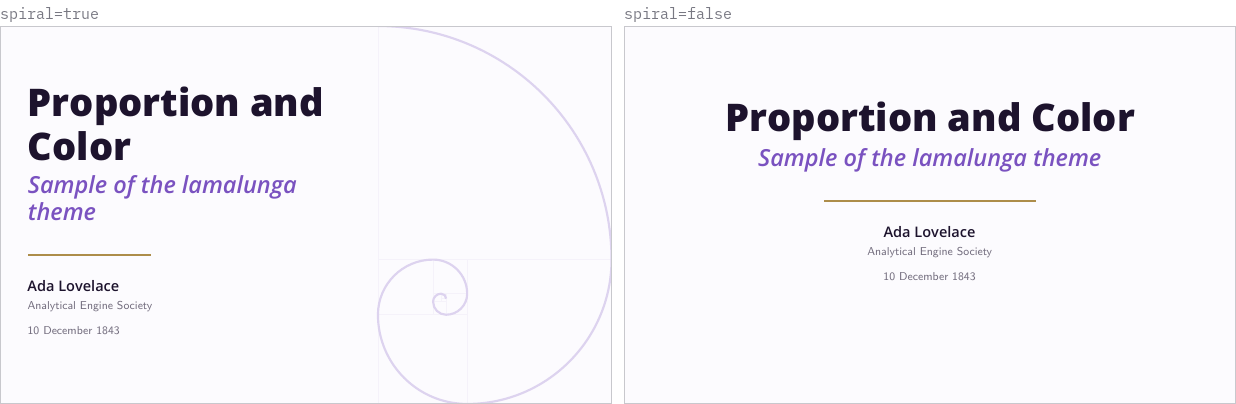
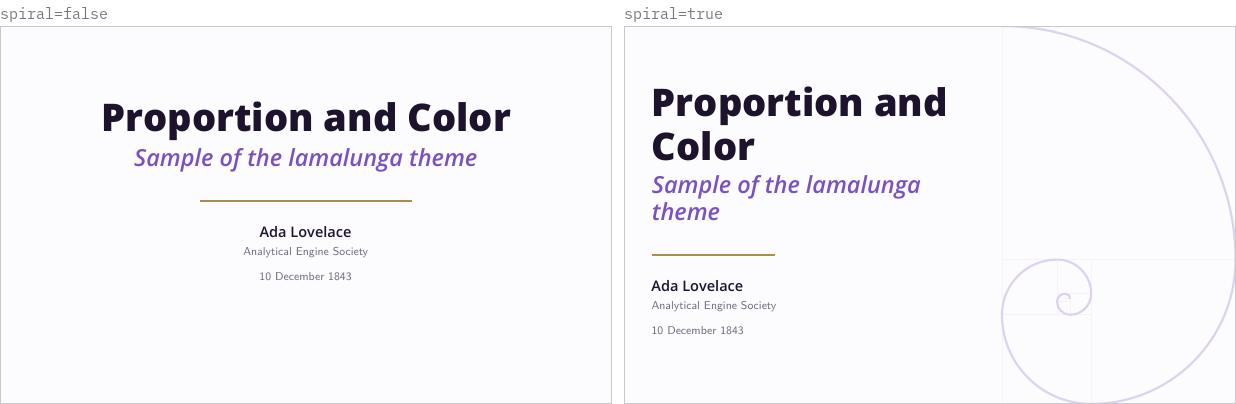
No spiral drawn by default: centered title page in every style

diff --git a/demo/lamalunga-demo.tex b/demo/lamalunga-demo.tex
@@ -46,16 +46,12 @@
 \section{Proportion}
 
 \begin{frame}{The page is a golden rectangle}
-  \begin{goldencolumns}
-    The page measures \inmm{\paperwidth} by \inmm{\paperheight}, i.e., a
-    ratio of
-    \(\pgfmathparse{\paperwidth/\paperheight}\pgfmathprintnumber[precision=4]{\pgfmathresult}\),
-    and the margins are \fib{8}\,pt and \fib{7}\,pt,
-    two consecutive Fibonacci numbers: since their ratio is again
-    \(\varphi\), the block of text is a golden rectangle as well.
-    \nextcolumn
-    \goldenspiral{2.4cm}
-  \end{goldencolumns}
+  The page measures \inmm{\paperwidth} by \inmm{\paperheight}, i.e., a
+  ratio of
+  \(\pgfmathparse{\paperwidth/\paperheight}\pgfmathprintnumber[precision=4]{\pgfmathresult}\),
+  and the margins are \fib{8}\,pt and \fib{7}\,pt,
+  two consecutive Fibonacci numbers: since their ratio is again
+  \(\varphi\), the block of text is a golden rectangle as well.
 \end{frame}
 
 \begin{frame}{Golden columns}

diff --git a/doc/gallery/build.py b/doc/gallery/build.py
@@ -95,8 +95,8 @@ FIGURES = {
         ("aspect=beamer (16:9)", "aspect=beamer"),
     ]),
     "spiral": ("title", [
-        ("spiral=true", "spiral=true"),
         ("spiral=false", "spiral=false"),
+        ("spiral=true", "spiral=true"),
     ]),
     "guides": ("plain", [
         ("guides=both", "guides=both"),

diff --git a/README.md b/README.md
@@ -141,9 +141,10 @@ in parentheses describes the options that control it.
   rule of φ pt; the padding of a highlight is φ times wider than it is tall;
   corners are square or rounded with a radius of φ⁻³ em; images are cropped to
   a golden rectangle.
-- **The golden spiral.** On the title page, the golden rectangle of the page
-  is cut into its squares: the title sits in the first one, and the spiral
-  turns in the others.
+- **The golden section of the title page.** The title block is centered and
+  sits at the golden section of the height; with `spiral=true` the golden
+  rectangle of the page is cut into its squares, the title takes the first
+  one and the spiral is drawn in the others.
 - **Styles, as in interior design.** A single choice (`bauhaus`, `swiss`,
   `nordic`, `classical`, `japandi`) sets the weight of the titles, the
   primary, the harmony, the mode and the forms of a coherent idiom (the two
@@ -190,11 +191,11 @@ the titles and in everything else.
 
 | style | titles | primary | harmony | mode | forms |
 |---|---|---|---|---|---|
-| `lamalunga` (default) | ExtraBold | `7A52C0` violet | complementary | light, tinted | bold titles, bold alerts, arrows, tinted blocks, title and author in the foot line, spiral |
+| `lamalunga` (default) | ExtraBold | `7A52C0` violet | complementary | light, tinted | bold titles, bold alerts, arrows, tinted blocks, title and author in the foot line |
 | `bauhaus` | ExtraBold | `BE1E2D` red | triadic: red, yellow, blue | light, white | boxed titles and alerts, Bauhaus bullets, rule blocks |
 | `swiss` | ExtraBold | `D52B1E` red | monochromatic | light, white | bold alerts, rule blocks, narrow margins |
 | `nordic` | Light | `4F6D7A` slate | analogous | paper | rounded corners, tinted blocks |
-| `classical` | Light | `7A1F2B` burgundy | complementary | paper | rule blocks, wide margins, spiral |
+| `classical` | Light | `7A1F2B` burgundy | complementary | paper | rule blocks, wide margins |
 | `japandi` | Light | `6B705C` olive gray | monochromatic | paper | rounded corners, rule blocks, wide margins |
 
 ## Color
@@ -328,10 +329,11 @@ page; with `light` the words in a highlight are no longer set in bold.
 
 Plain titles (the default) are set in bold in the primary; boxed titles set
 the frame titles, the title and the section titles in a box of the primary,
-and a title broken with `\\` gets one box per line. Without the spiral, the
-title page is centered horizontally (and stays at the golden section of the
-height). Alerts are in the first accent and in bold by default, in the accent
-alone with `color`, or a highlight of the accent with `boxed`.
+and a title broken with `\\` gets one box per line. The title page is
+centered horizontally and stays at the golden section of the height (with
+`spiral=true` it keeps to the first square of the spiral instead). Alerts
+are in the first accent and in bold by default, in the accent alone with
+`color`, or a highlight of the accent with `boxed`.
 
 ![Boxed and plain titles](doc/img/titles.png)
 
@@ -359,7 +361,7 @@ the size shrinks by φ at each level.
 | `footline` | `credits` (the short title at the left, the author at the right), `none` (a free page, with its bottom margin), `running` (the short institute at the left, the frame number at the right), `minimal` (author and title at the left, the number at the right), `infolines` (three fields in the proportion 1 : φ : 1) | `credits` |
 | `headline` | `none`, `running` (the short title at the left, the author at the right, over a hairline), `miniframes` (the navigation dots of the classic themes) | `none` |
 | `sectionpage` | `progressbar`, `toc` (the outline at each section), `none` | `progressbar` |
-| `spiral` | `true`, `false` | `true` |
+| `spiral` | `false`, `true` | `false` |
 | `guides` | `none`, `thirds`, `golden`, `both` | `none` |
 
 Frames after `\appendix` are not counted in the total, and standout frames
@@ -367,7 +369,7 @@ are not numbered.
 
 ![Three arrangements of head and foot lines](doc/img/chrome.png)
 
-![The title page with and without the spiral](doc/img/spiral.png)
+![The title page without and with the spiral](doc/img/spiral.png)
 
 ![Composition guides and a focal point](doc/img/guides.png)
 
